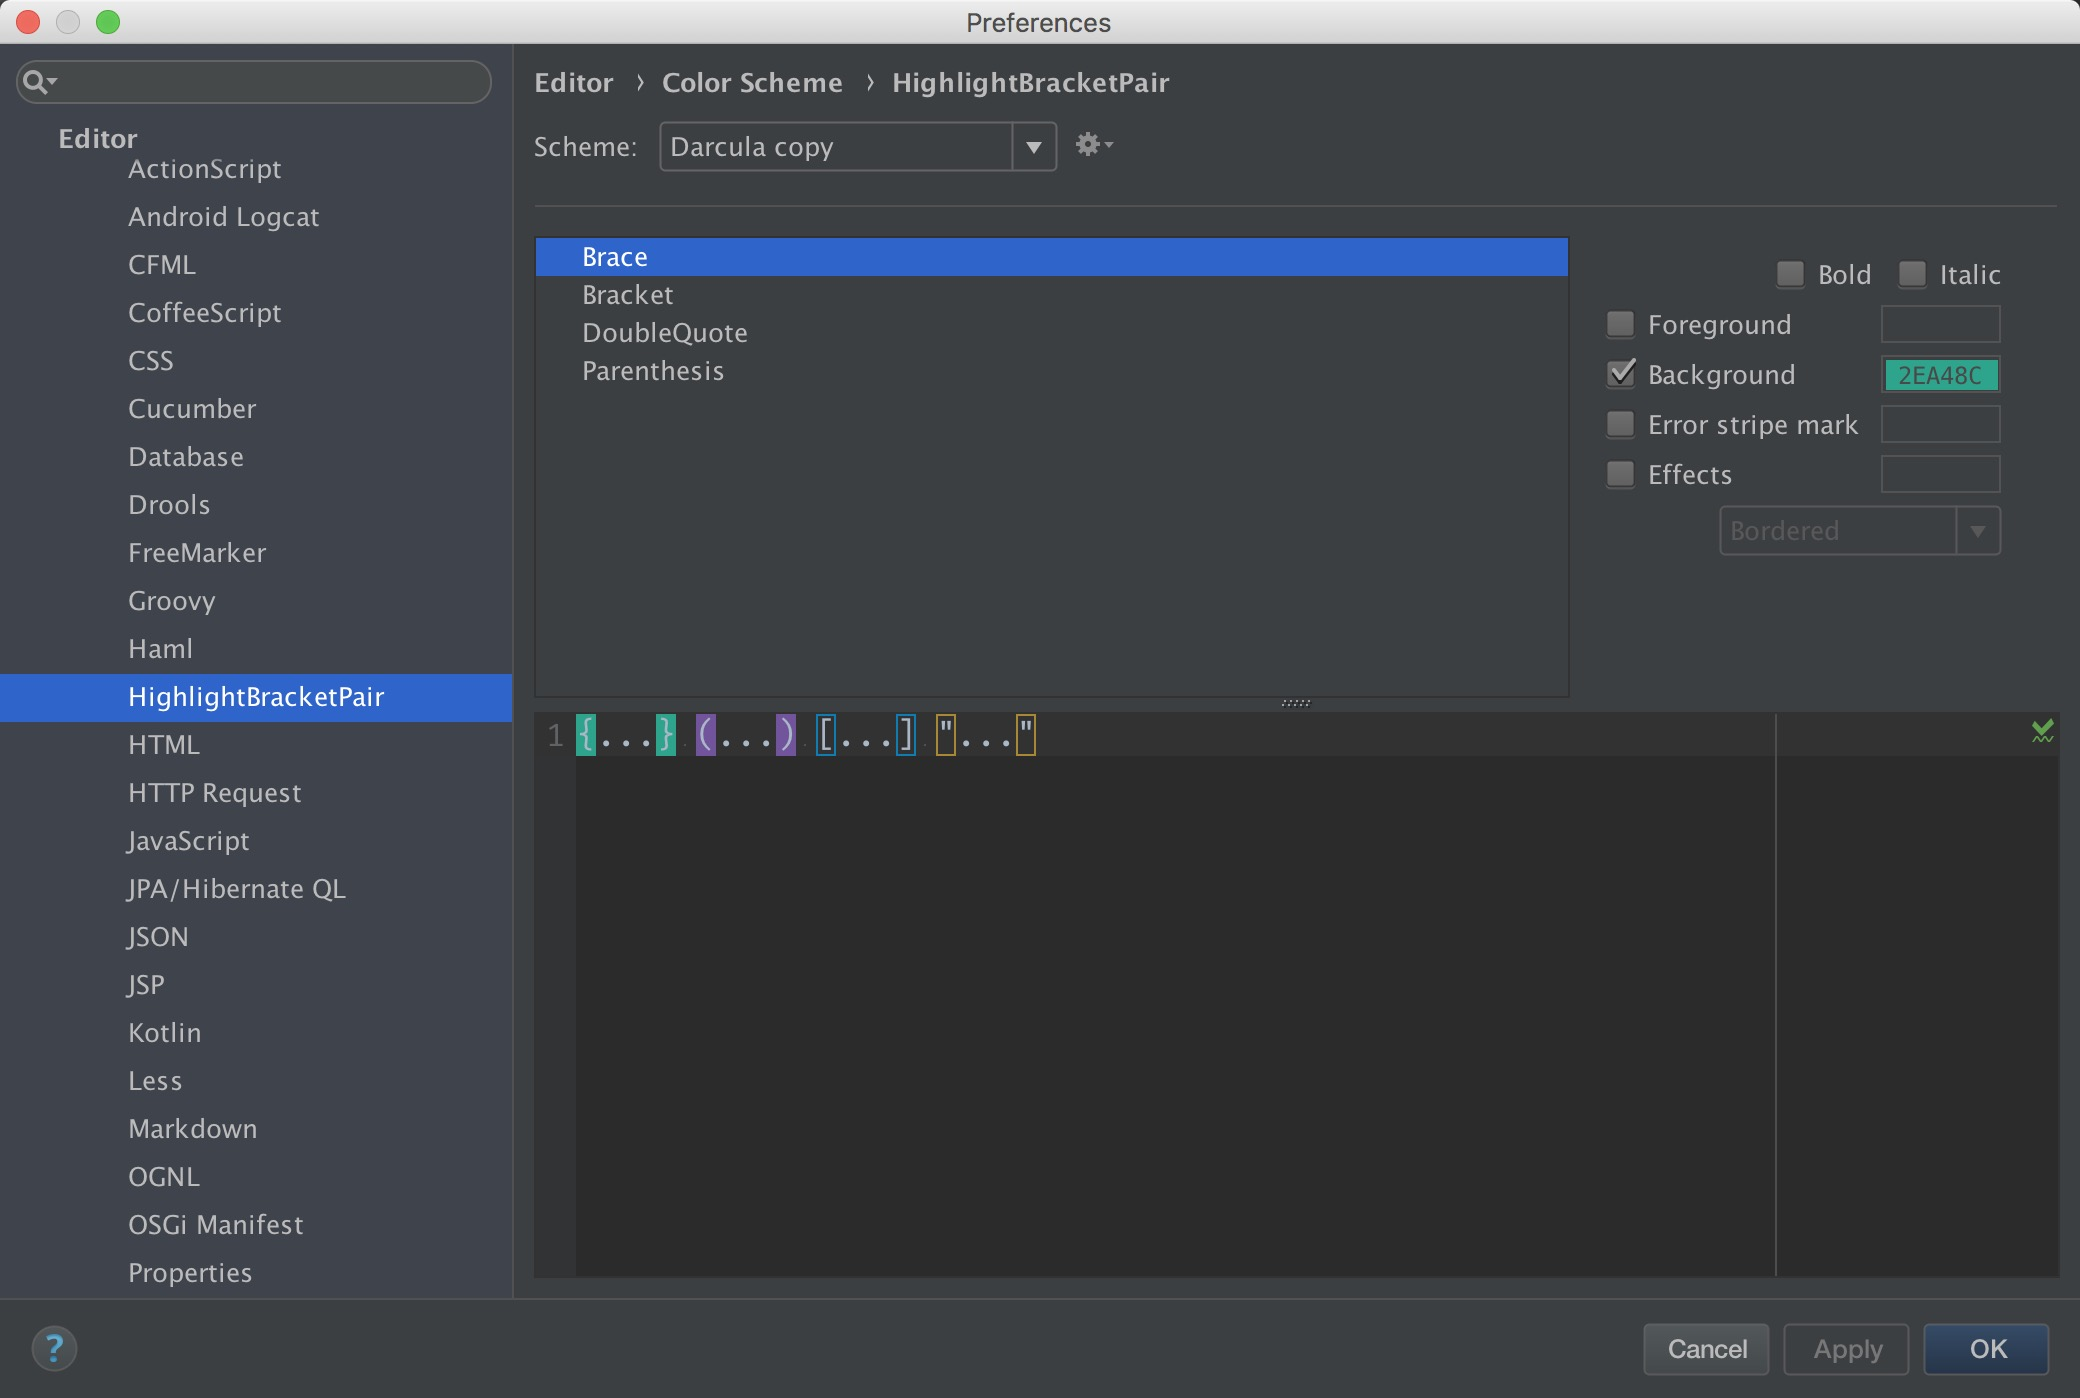
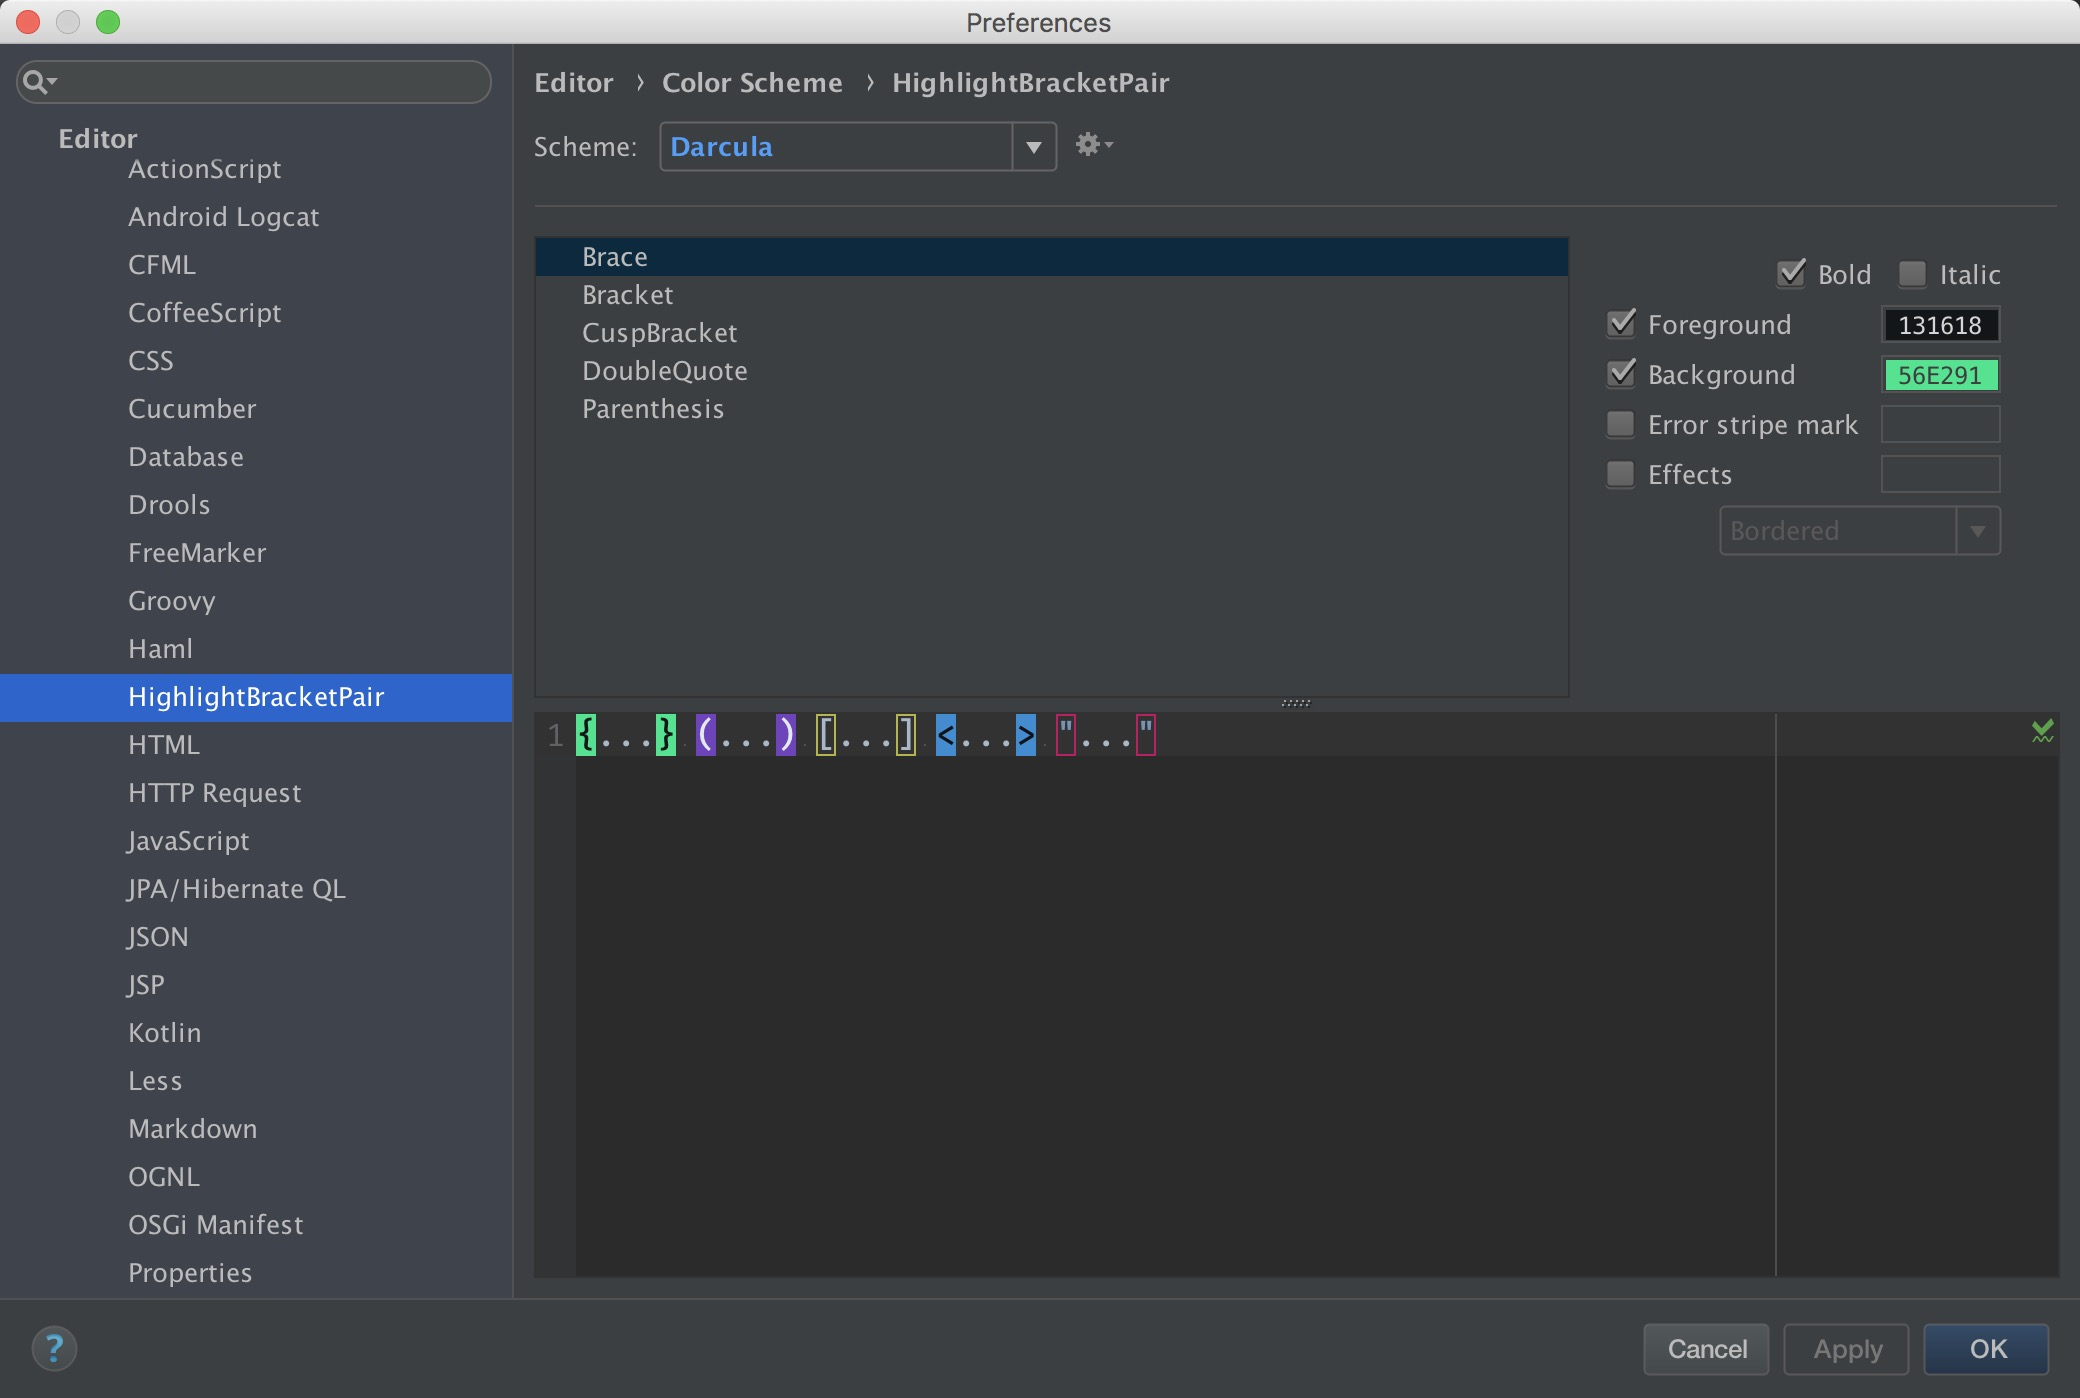
update the images and add cups brackets

diff --git a/src/io/github/qeesung/setting/HighlightBracketPairSettingsPage.java b/src/io/github/qeesung/setting/HighlightBracketPairSettingsPage.java
@@ -26,6 +26,8 @@ public class HighlightBracketPairSettingsPage implements ColorSettingsPage {
             TextAttributesKey.createTextAttributesKey("PARENTHESIS_ATTR");
     public static final TextAttributesKey DOUBLE_QUOTE_ATTR =
             TextAttributesKey.createTextAttributesKey("DOUBLE_QUOTE_ATTR");
+    public static final TextAttributesKey CUSP_BRACKETS_ATTR=
+            TextAttributesKey.createTextAttributesKey("CUSP_BRACKETS_ATTR");
 
     private static final Map<String, TextAttributesKey> TAGS = new HashMap<>();
     private static final AttributesDescriptor[] ATTRIBUTESDESC = {
@@ -33,6 +35,7 @@ public class HighlightBracketPairSettingsPage implements ColorSettingsPage {
             new AttributesDescriptor("Bracket", BRACKET_ATTR),
             new AttributesDescriptor("Parenthesis", PARENTHESIS_ATTR),
             new AttributesDescriptor("DoubleQuote", DOUBLE_QUOTE_ATTR),
+            new AttributesDescriptor("CuspBracket", CUSP_BRACKETS_ATTR),
     };
     private static final Map<IElementType, TextAttributesKey> ELETYPE2ATTR = new HashMap<>();
 
@@ -40,6 +43,7 @@ public class HighlightBracketPairSettingsPage implements ColorSettingsPage {
         ELETYPE2ATTR.put(JavaTokenType.LBRACE, BRACE_ATTR);
         ELETYPE2ATTR.put(JavaTokenType.LBRACKET, BRACKET_ATTR);
         ELETYPE2ATTR.put(JavaTokenType.LPARENTH, PARENTHESIS_ATTR);
+        ELETYPE2ATTR.put(JavaTokenType.LT, CUSP_BRACKETS_ATTR);
         ELETYPE2ATTR.put(DOUBLE_QUOTE, DOUBLE_QUOTE_ATTR);
     }
 
@@ -48,6 +52,7 @@ public class HighlightBracketPairSettingsPage implements ColorSettingsPage {
         TAGS.put("Bracket", BRACKET_ATTR);
         TAGS.put("Parenthesis", PARENTHESIS_ATTR);
         TAGS.put("DoubleQuote", DOUBLE_QUOTE_ATTR);
+        TAGS.put("CuspBracket", CUSP_BRACKETS_ATTR);
     }
 
     public static TextAttributesKey getTextAttributesKeyByToken(IElementType type) {
@@ -72,6 +77,7 @@ public class HighlightBracketPairSettingsPage implements ColorSettingsPage {
         return "<Brace>{</Brace>...<Brace>}</Brace>" +
                 " <Parenthesis>(</Parenthesis>...<Parenthesis>)</Parenthesis>" +
                 " <Bracket>[</Bracket>...<Bracket>]</Bracket>" +
+                " <CuspBracket><</CuspBracket>...<CuspBracket>></CuspBracket>" +
                 " <DoubleQuote>\"</DoubleQuote>...<DoubleQuote>\"</DoubleQuote>";
     }
 

diff --git a/src/io/github/qeesung/brace/BraceTokenType.java b/src/io/github/qeesung/brace/BraceTokenType.java
@@ -18,6 +18,8 @@ public class BraceTokenType {
         ElementType2Text.put(JavaTokenType.RPARENTH, "]");
         ElementType2Text.put(JavaTokenType.LBRACKET, "(");
         ElementType2Text.put(JavaTokenType.RBRACKET, ")");
+        ElementType2Text.put(JavaTokenType.LT, "<");
+        ElementType2Text.put(JavaTokenType.GT, ">");
         ElementType2Text.put(DOUBLE_QUOTE, "\"");
     }
 
